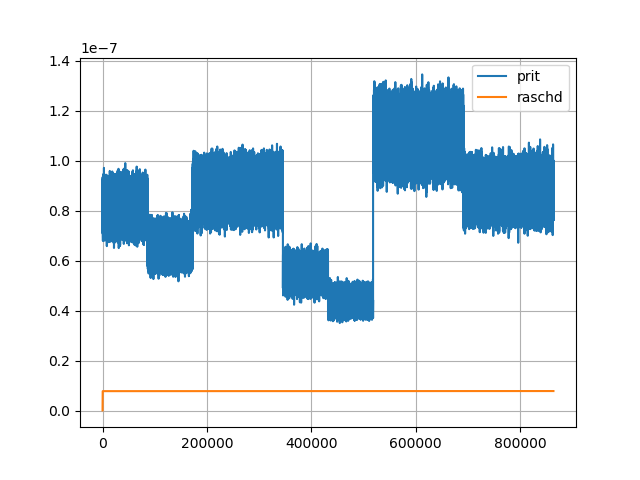
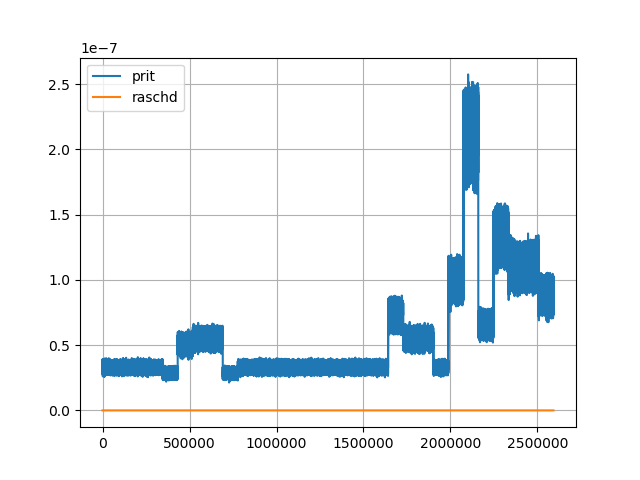
Ver_0.2

diff --git a/GES_Kaskad.py b/GES_Kaskad.py
@@ -1,8 +1,8 @@
 import datetime
-import math
 import os
 import random
 
+import math
 import matplotlib.pyplot as plt
 
 import Grafiki_Ischod
@@ -21,7 +21,7 @@ class GES():
         self.MAX_SBROS = MAX_SBROS
 
     def compare(self, current_Level, prit, rashod, proc_now, TIME_FOR_FULL_OPEN):
-        if current_Level < self.NPU * 1.00001 and current_Level > self.NPU * 0.9999999:
+        if current_Level < self.NPU * 1.01 and current_Level > self.NPU * 0.99:
             treb_proc = prit / V_to_H(self.MAX_SBROS, self.S_ZERKALA)
             if treb_proc > 1:
                 treb_proc = 1
@@ -32,16 +32,14 @@ class GES():
                     treb_proc = -(math.log10((current_Level - self.UMO) / (self.NPU - self.UMO)))
                     # print(treb_proc, 'menishe')
                     # print(prit,rashod)
-
-                    if prit * self.delay(treb_proc, proc_now, TIME_FOR_FULL_OPEN) > rashod:
-                        treb_proc = treb_proc - 1 / TIME_FOR_FULL_OPEN
-                        # print(treb_proc)
+                    # print(treb_proc)
+                    if prit * self.delay(treb_proc, proc_now, TIME_FOR_FULL_OPEN) * self.MAX_SBROS > rashod:
+                        treb_proc = prit / V_to_H(self.MAX_SBROS, self.S_ZERKALA) * (prit - rashod)
                     if treb_proc <= 0:
                         treb_proc = 0
                     if treb_proc > 1:
                         treb_proc = 1
-                    print(treb_proc)
-
+                    # print(treb_proc)
                     return treb_proc
                 else:
                     return 0
@@ -98,18 +96,18 @@ def momental_rash_prolong_na_den(voda_v_sec):
 def main():
     file_name = os.getcwd() + '\\GES_DATA.json'
     DATA = Grafiki_Ischod.get_struct(file_name)
-    period = 10
+    period = 30
     S_ZERKALA_1 = 4550 * 1000 * 1000
-    MAX_RASHOD_1 = 1000
-    VREMYA_POLNOGO_OTKR_1 = 600
+    MAX_RASHOD_1 = 300
+    VREMYA_POLNOGO_OTKR_1 = 60
     S_ZERKALA_2 = 1591 * 1000 * 1000
     MAX_RASHOD_2 = 300
-    VREMYA_POLNOGO_OTKR_2 = 600
+    VREMYA_POLNOGO_OTKR_2 = 60
     S_ZERKALA_3 = 1508 * 1000 * 1000
-    MAX_RASHOD_3 = 100
-    VREMYA_POLNOGO_OTKR_3 = 600
+    MAX_RASHOD_3 = 300
+    VREMYA_POLNOGO_OTKR_3 = 60
     deltatime = datetime.timedelta(period)
-    dateStart = datetime.datetime(2018, 8, 1)
+    dateStart = datetime.datetime(2018, 9, 1)
     datenow = dateStart
     time = 24*60*60
     levels = []
@@ -125,7 +123,6 @@ def main():
     raschod1mas = []
     raschod2mas = []
     raschod3mas = []
-    procs_open = []
     datenow_str = str(datenow)
     ges1 = GES(DATA[name][datenow_str], S_ZERKALA_1, MAX_RASHOD_1)
     ges2 = GES(DATA[name1][datenow_str], S_ZERKALA_2, MAX_RASHOD_2)
@@ -135,7 +132,6 @@ def main():
     proc_now = 0
     proc_now2 = 0
     proc_now3 = 0
-    proc_treb = []
     raschod1 = 0
     raschod2 = 0
     raschod3 = 0
@@ -151,7 +147,7 @@ def main():
             prit = V_to_H(raspred_na_den_with_noise(ges1.PRITOK), ges1.S_ZERKALA, )
             pritok1.append(prit)
             current_level = prit + current_levels[0]
-            #proc_treb.append((ges1.compare(current_level, prit, raschod1, proc_now, VREMYA_POLNOGO_OTKR_1)))
+            # proc_treb.append((ges1.compare(current_level, prit, raschod1, proc_now, VREMYA_POLNOGO_OTKR_1)))
             proc_now = ges1.delay((ges1.compare(current_level, prit, raschod1, proc_now, VREMYA_POLNOGO_OTKR_1)),
                                   proc_now, VREMYA_POLNOGO_OTKR_1)
             # print(proc_now)
@@ -163,7 +159,7 @@ def main():
             # print(raschod,prit)
             pritok2.append(prit)
             current_level = prit + current_levels[1]
-            #proc_treb.append((ges2.compare(current_level, prit, raschod2, proc_now2, VREMYA_POLNOGO_OTKR_2)))
+            # proc_treb.append((ges2.compare(current_level, prit, raschod2, proc_now2, VREMYA_POLNOGO_OTKR_2)))
             proc_now2 = ges2.delay((ges2.compare(current_level, prit, raschod2, proc_now2, VREMYA_POLNOGO_OTKR_2)),
                                    proc_now2, VREMYA_POLNOGO_OTKR_2)
             raschod2 = V_to_H(ges2.MAX_SBROS, ges2.S_ZERKALA) * proc_now2
@@ -173,7 +169,7 @@ def main():
                           ges3.S_ZERKALA)
             pritok3.append(prit)
             current_level = prit + current_levels[2]
-            #proc_treb.append((ges3.compare(current_level, prit, raschod3, proc_now3, VREMYA_POLNOGO_OTKR_3)))
+            # proc_treb.append((ges3.compare(current_level, prit, raschod3, proc_now3, VREMYA_POLNOGO_OTKR_3)))
             proc_now3 = ges3.delay((ges3.compare(current_level, prit, raschod3, proc_now3, VREMYA_POLNOGO_OTKR_3)),
                                    proc_now3, VREMYA_POLNOGO_OTKR_3)
             raschod3 = V_to_H(ges3.MAX_SBROS, ges3.S_ZERKALA) * proc_now3
@@ -185,6 +181,7 @@ def main():
             # procs_open.append(proc_now)
             # print(proc_now,proc_now2,proc_now3)
         datenow = datenow + datetime.timedelta(1)
+        # print(raschod1,raschod3)
     # print(procs_open)
     # print(proc_treb)
     # print(raschodi)
